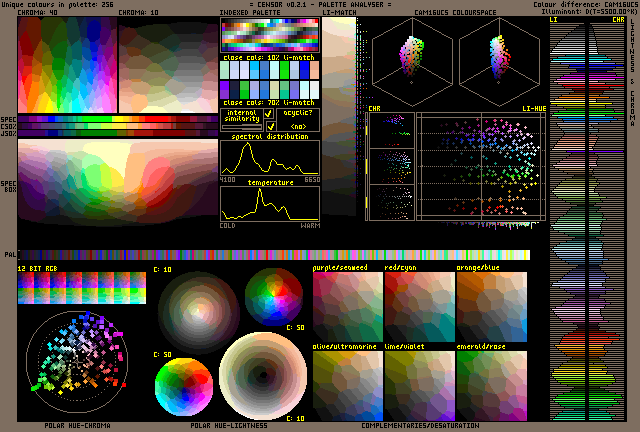
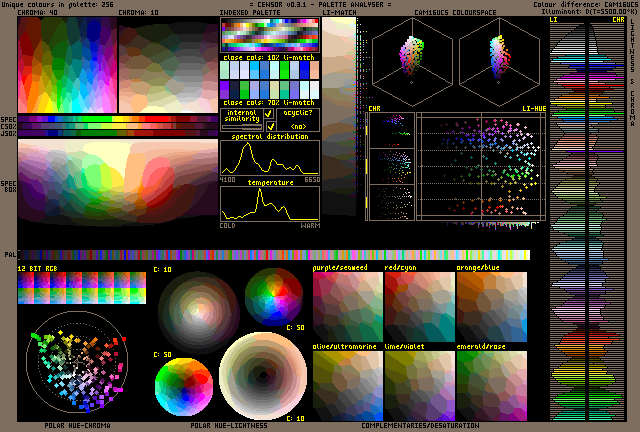
Minor improvements and a bugfix

Changed region(s): [[0.0312, 0.7222, 0.1875, 0.963]]

diff --git a/src/palette.rs b/src/palette.rs
@@ -36,8 +36,7 @@ impl Palette {
         let bg = Self::minimise(&cam16, |i, c| {
             if i == bl { return f32::MAX; }
             let not_grey = 100. - CAM16UCS::dist(&c, &CAM16UCS{J:50., a:0., b:0., C:0.});
-            let dist_to_bl = CAM16UCS::dist(&c, &cam16[bl]);
-            let not_bl = dist_to_bl * 0.4 + f32::abs(c.J - cam16[bl].J) * 0.6;
+            let not_bl = CAM16UCS::dist_limatch(c, cam16[bl], 0.6);
             let score = not_bl.powf(0.02) * not_grey.powf(0.98);
             return -score;
         });
@@ -47,9 +46,7 @@ impl Palette {
         });
         let tl = Self::minimise(&cam16, |i, c| {
             if i == bg { return f32::MAX; }
-            let dist_to_bg = CAM16UCS::dist(&c, &cam16[bg]);
-            let not_bg = dist_to_bg * 0.4 + f32::abs(c.J - cam16[bg].J) * 0.6;
-            return -not_bg;
+            -CAM16UCS::dist_limatch(c, cam16[bg], 0.6)
         });
         Palette { n, rgb, xyz, cam16, sorted, bl, bg, fg, tl }
     }

diff --git a/src/widget.rs b/src/widget.rs
@@ -1071,7 +1071,7 @@ impl Widget for HueChromaPolarWidget {
             if C <= 0.1 { C = 0.; }
             let dd = 2 + min_dd + (C * (max_dd - min_dd) as f32).round() as i32;
             let x = cx + (C * r as f32 * h.cos()).round() as i32;
-            let y = cy + (C * r as f32 * h.sin()).round() as i32;
+            let y = cy - (C * r as f32 * h.sin()).round() as i32;
             graph.disc(x - dd / 2, y - dd / 2, dd, palette.rgb[i]);
             if i == palette.bl {
                 graph.circle(
